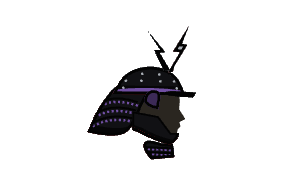
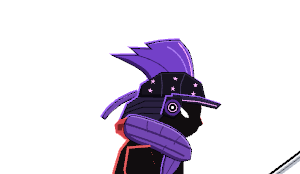
SAN-72: review fixture and images (tier sheet, poses, bodies in Screenshots/review/SAN-72/tiers), Armory helmet tiles rendered from the rig
HelmetTierScreenshots.ReviewTilesAndArmoryPictures renders every Act I helmet in idle, walk, attack, hit and a head wind, the
full body mid-walk, and the 14 icon_h_<id>.png tile pictures (matted from a black and a white render). Pixel check: Kage
bare-headed, in the starter, in every armour, and every other character identical to before (40/40).

Changed region(s): [[0.27, 0.1437, 0.75, 1.0], [0.9, 0.8621, 1.0, 1.0]]

diff --git a/Assets/Kage/Tests/PlayMode/HelmetTierScreenshots.cs b/Assets/Kage/Tests/PlayMode/HelmetTierScreenshots.cs
@@ -3,18 +3,135 @@ using System.IO;
 using NUnit.Framework;
 using UnityEngine;
 using UnityEngine.Rendering;
+using UnityEngine.Rendering.Universal;
 
 namespace Kage.Tests
 {
     /// <summary>
-    /// SAN-72 tier redesign: the review images in Screenshots/review/SAN-72/tiers/ and the pixel check of everything the helmets
-    /// must not change. Needs a GPU: it skips itself under -nographics. Run <c>-testFilter HelmetTierScreenshots</c> without
-    /// -nographics.
+    /// SAN-72 tier redesign: the review tiles in Screenshots/review/SAN-72/tiers/tiles/ (every Act I helmet on the game's real rig, head
+    /// close-ups in idle, walk, attack, hit and a head wind), the Armory's helmet tile pictures (Resources/UI/Img/icon_h_&lt;id&gt;.png),
+    /// and the pixel check of everything the helmets must not change. The tier sheet and the pose sheets are laid out from the tiles by
+    /// <c>python Tools/helmet_art/build.py sheets Screenshots/review/SAN-72/tiers</c>. Needs a GPU: it skips itself under -nographics.
+    /// Run <c>-testFilter HelmetTierScreenshots</c> without -nographics.
     /// </summary>
     [Category("Screenshots")]
     public class HelmetTierScreenshots
     {
         const int W = 800, H = 600;
+        const int Tile = 420, IconW = 300, IconH = 174;
+        static readonly Color Back = new(0.16f, 0.13f, 0.14f, 1f);
+
+        // the starter, the 10 shop helmets, the 3 Act I rewards
+        static readonly string[] Act1 =
+        {
+            "shiro_maki", "kuro_zukin", "sugegasa", "hachigane", "kasumi_men", "tetsu_kabuto", "oni_menpo", "hoshi_kabuto",
+            "shika_kabuto", "utsuro_kabuto", "shikko_zukin", "sumi_eboshi", "hisame_zukin", "raijin_kabuto",
+        };
+
+        static string Root => Path.GetFullPath(Path.Combine(Application.dataPath, ".."));
+
+        static CharacterDef Wearing(string helmet)
+        {
+            var def = CharacterCatalog.Get(KageCharacter.Id);
+            def.helmet = helmet;
+            return def;
+        }
+
+        /// <summary>Kage in a pose: idle, a walk, a slash, the high hurt pose, and standing in a head wind that blows his soft pieces back.</summary>
+        static HeadlessFight Posed(string helmet, string pose)
+        {
+            var f = new HeadlessFight(KageMoveScenarios.Seed, Foe.None, -0.2f, kageDef: Wearing(helmet));
+            switch (pose)
+            {
+                case "idle": f.Run(30); break;
+                case "walk": f.KageInput.Add(30, fwd: 1); f.Run(24); break;
+                case "attack": f.KageInput.Add(1, buttons: "S"); f.Run(14); break;
+                case "hit": f.Run(20); f.Kage.rig.Apply(PoseLib.HurtHigh()); break;
+                case "wind": f.Kage.rig.wind = Wind.Blowing(new Vector2(-5f, 0f), 2f); f.Run(60); break;
+            }
+            return f;
+        }
+
+        [Test]
+        public void ReviewTilesAndArmoryPictures()
+        {
+            Assume.That(SystemInfo.graphicsDeviceType != GraphicsDeviceType.Null, "needs a GPU: run without -nographics");
+            string tiles = Path.Combine(Root, "Screenshots", "review", "SAN-72", "tiers", "tiles");
+            string icons = Path.Combine(Application.dataPath, "Kage", "Resources", "UI", "Img");
+            Directory.CreateDirectory(tiles);
+
+            foreach (var id in Act1)
+            {
+                foreach (var pose in new[] { "idle", "walk", "attack", "hit", "wind" })
+                {
+                    using var f = Posed(id, pose);
+                    Vector2 head = f.Kage.rig.Bone(B.Head).position;
+                    Save(Path.Combine(tiles, $"{id}_{pose}.png"), Render(head + new Vector2(-0.1f, 0.12f), 0.56f, Tile, Tile, Back), Tile, Tile);
+                    if (pose == "walk")
+                        Save(Path.Combine(tiles, $"{id}_body.png"), Render(f.Kage.Pos + new Vector2(0f, 1.0f), 1.2f, Tile, Tile, Back), Tile, Tile);
+                    if (pose == "idle")
+                        Save(Path.Combine(icons, $"icon_h_{id}.png"), Icon(head + new Vector2(-0.12f, 0.2f)), IconW, IconH);
+                }
+            }
+            FileAssert.Exists(Path.Combine(tiles, "raijin_kabuto_wind.png"));
+            FileAssert.Exists(Path.Combine(icons, "icon_h_raijin_kabuto.png"));
+        }
+
+        /// <summary>An Armory tile picture: the head on a see-through background (rendered on black and on white; the difference is the coverage).</summary>
+        static Color32[] Icon(Vector2 centre)
+        {
+            var black = Render(centre, 0.42f, IconW, IconH, Color.black);
+            var white = Render(centre, 0.42f, IconW, IconH, Color.white);
+            var o = new Color32[black.Length];
+            for (int i = 0; i < o.Length; i++)
+            {
+                float cov = 1f - ((white[i].r - black[i].r) + (white[i].g - black[i].g) + (white[i].b - black[i].b)) / (3f * 255f);
+                cov = Mathf.Clamp01(cov);
+                if (cov < 0.004f) { o[i] = new Color32(0, 0, 0, 0); continue; }
+                byte C(byte b) => (byte)Mathf.Clamp(Mathf.RoundToInt(b / cov), 0, 255);
+                o[i] = new Color32(C(black[i].r), C(black[i].g), C(black[i].b), (byte)Mathf.RoundToInt(cov * 255f));
+            }
+            return o;
+        }
+
+        static void Save(string path, Color32[] px, int w, int h)
+        {
+            var tex = new Texture2D(w, h, TextureFormat.RGBA32, false);
+            tex.SetPixels32(px);
+            tex.Apply();
+            File.WriteAllBytes(path, tex.EncodeToPNG());
+            UnityEngine.Object.DestroyImmediate(tex);
+        }
+
+        static Color32[] Render(Vector2 centre, float orthoSize, int w, int h, Color bg)
+        {
+            var go = new GameObject("ShotCam");
+            var cam = go.AddComponent<Camera>();
+            cam.orthographic = true;
+            cam.orthographicSize = orthoSize;
+            cam.clearFlags = CameraClearFlags.SolidColor;
+            cam.backgroundColor = bg;
+            cam.nearClipPlane = 0.1f;
+            cam.farClipPlane = 100f;
+            cam.transform.position = new Vector3(centre.x, centre.y, -10f);
+            var data = cam.GetUniversalAdditionalCameraData();
+            if (data != null) { data.renderPostProcessing = false; data.antialiasing = AntialiasingMode.None; }
+            var rt = new RenderTexture(w, h, 24, RenderTextureFormat.ARGB32) { antiAliasing = 4 };
+            cam.targetTexture = rt;
+            cam.Render();
+            cam.targetTexture = null;
+            var prev = RenderTexture.active;
+            RenderTexture.active = rt;
+            var tex = new Texture2D(w, h, TextureFormat.RGBA32, false);
+            tex.ReadPixels(new Rect(0, 0, w, h), 0, 0);
+            RenderTexture.active = prev;
+            var px = tex.GetPixels32();
+            UnityEngine.Object.DestroyImmediate(tex);
+            rt.Release();
+            UnityEngine.Object.DestroyImmediate(rt);
+            UnityEngine.Object.DestroyImmediate(go);
+            return px;
+        }
 
         /// <summary>
         /// Kage with no helmet (and in the starter, which draws nothing) and every other character of the catalog, each tile alone,
